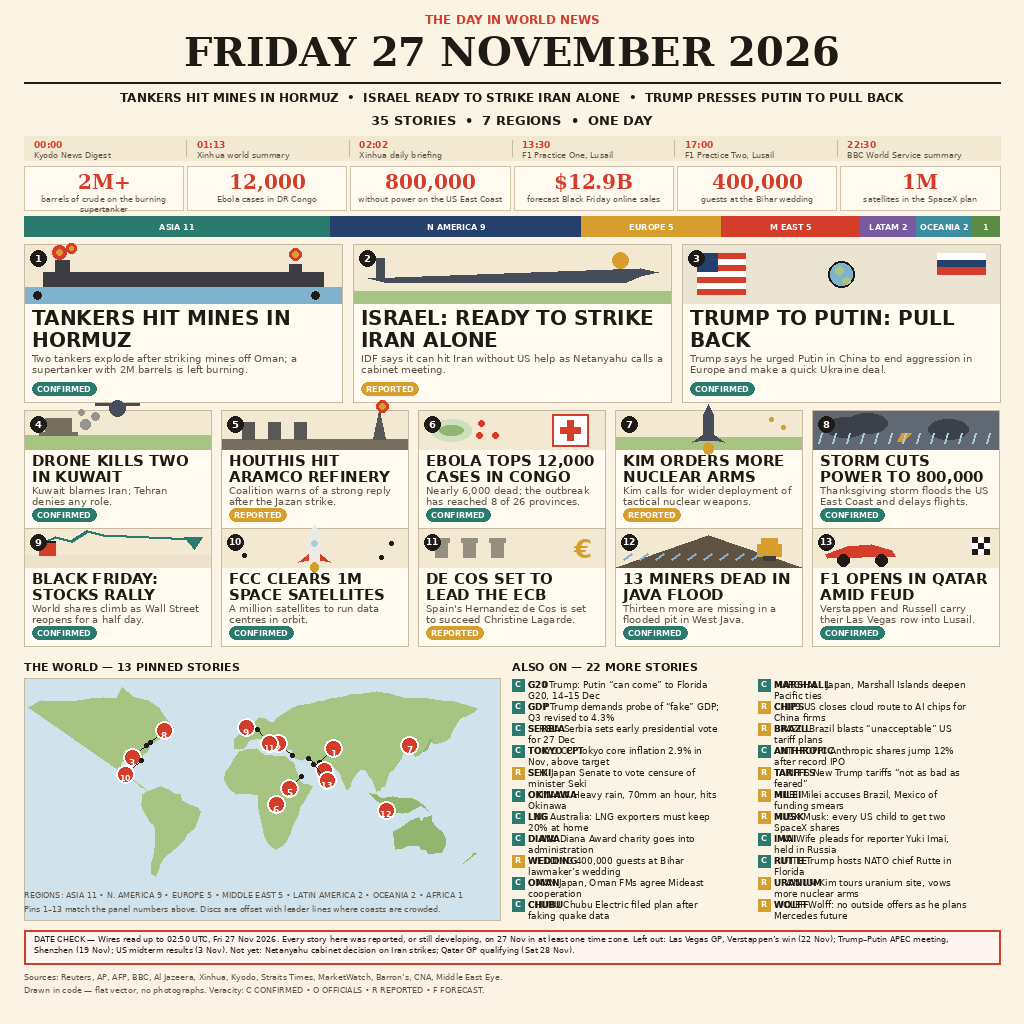
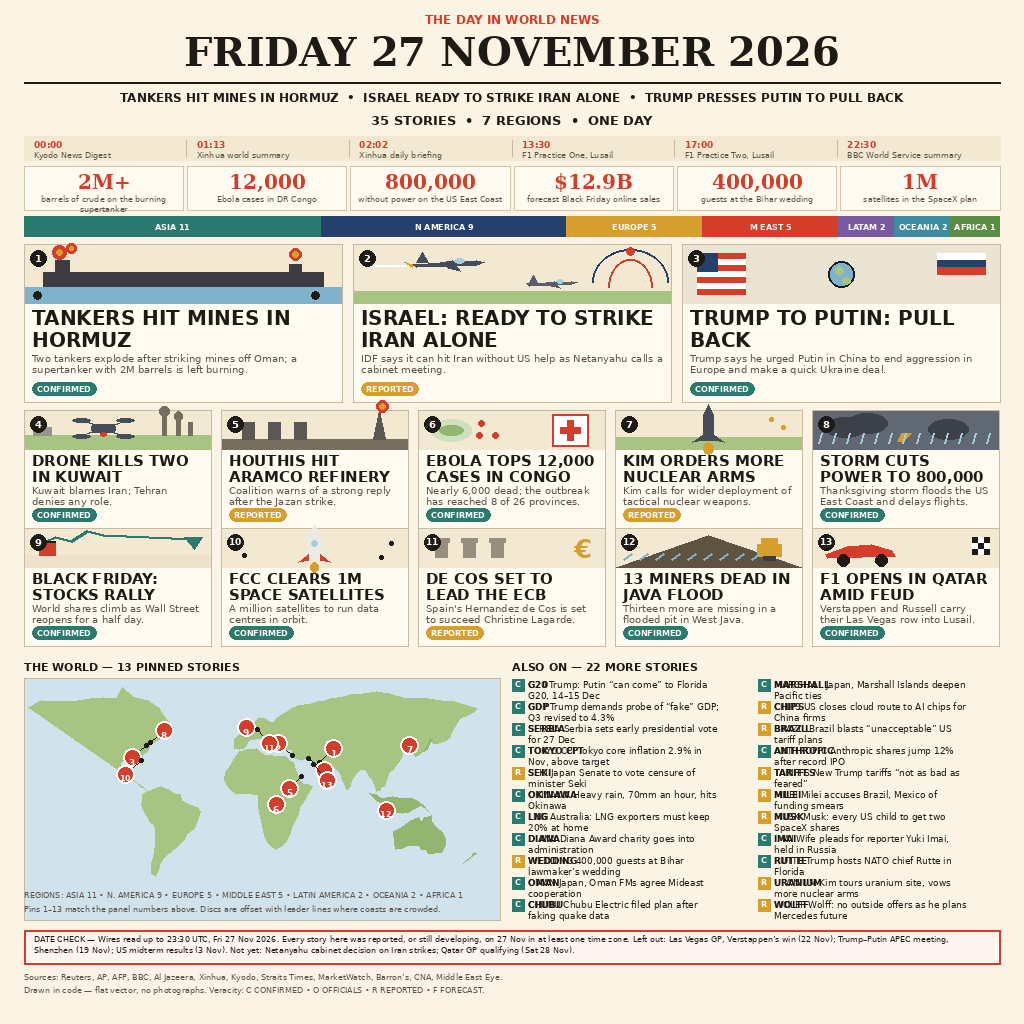
news-image-20261127 v2: fix DATE CHECK wires time, Africa label, hero-2 + panel-4 art

diff --git a/draw.py b/draw.py
@@ -194,12 +194,30 @@ def scene(d, kind, x, y, w, h):
         for mx in (x + w - 26, x + 12):
             d.ellipse([mx - 4, y + h - 12, mx + 4, y + h - 4], fill=INK)
     elif kind == "jet":
+        # Fighter jets + missile-defence arcs over land.
         d.rectangle([x, y + h - 12, x + w, y + h], fill=LAND)
-        d.polygon([(x + 14, cy + 4), (x + w - 30, cy - 6), (x + w - 12, cy - 2),
-                   (x + w - 30, cy + 2), (x + w - 44, cy + 8), (x + 30, cy + 8)],
-                  fill=(70, 76, 88))
-        d.rectangle([x + 22, cy - 16, x + 30, cy + 4], fill=(70, 76, 88))
-        d.ellipse([x + w - 58, cy - 22, x + w - 42, cy - 6], fill=MUSTARD)
+        # defence arcs rising from the ground, right side
+        d.arc([x + w - 78, y + 4, x + w - 2, y + h + 12], 180, 360, fill=NAVY, width=2)
+        d.arc([x + w - 62, y + 14, x + w - 18, y + h + 12], 180, 360, fill=CORAL, width=2)
+        d.ellipse([x + w - 44, y + 2, x + w - 36, y + 10], fill=CORAL)
+        # jet 1, large, upper left flying right
+        jx, jy, s, col = x + 92, cy - 12, 1.0, (70, 76, 88)
+        d.line([jx - 78, jy + 3, jx - 40, jy + 3], fill=(255, 255, 255), width=2)
+        d.polygon([(jx - 34, jy + 2), (jx + 30, jy - 2), (jx + 38, jy),
+                   (jx + 30, jy + 3), (jx - 30, jy + 5)], fill=col)
+        d.polygon([(jx - 6, jy), (jx + 6, jy - 2), (jx + 14, jy + 9),
+                   (jx + 2, jy + 6)], fill=col)
+        d.polygon([(jx - 30, jy), (jx - 24, jy - 10), (jx - 18, jy)], fill=col)
+        d.ellipse([jx + 8, jy - 4, jx + 18, jy + 1], fill=SKY)
+        d.polygon([(jx - 34, jy + 2), (jx - 42, jy), (jx - 34, jy + 5)], fill=MUSTARD)
+        # jet 2, smaller, lower centre flying right
+        jx, jy, s, col = x + 196, cy + 8, 0.7, (88, 94, 106)
+        d.polygon([(jx - 24, jy + 1), (jx + 21, jy - 1), (jx + 27, jy),
+                   (jx + 21, jy + 2), (jx - 21, jy + 4)], fill=col)
+        d.polygon([(jx - 4, jy), (jx + 4, jy - 1), (jx + 10, jy + 6),
+                   (jx + 1, jy + 4)], fill=col)
+        d.polygon([(jx - 21, jy), (jx - 17, jy - 7), (jx - 13, jy)], fill=col)
+        d.ellipse([jx + 6, jy - 3, jx + 13, jy + 1], fill=SKY)
     elif kind == "flags":
         d.rectangle([x, y, x + w, y + h], fill=(235, 228, 210))
         for i in range(7):  # US stripes
@@ -214,13 +232,26 @@ def scene(d, kind, x, y, w, h):
         d.ellipse([cx - 6, cy - 8, cx + 2, cy + 1], fill=LAND)
         d.ellipse([cx + 1, cy + 3, cx + 9, cy + 10], fill=LAND)
     elif kind == "drone":
+        # Quad-rotor drone over a Kuwait Towers skyline cue.
         d.rectangle([x, y + h - 14, x + w, y + h], fill=LAND)
-        d.rectangle([x + 14, cy + 2, x + 52, y + h - 14], fill=(120, 110, 96))
-        d.rectangle([x + 20, cy - 12, x + 46, cy + 2], fill=(120, 110, 96))
-        d.ellipse([cx - 8, cy - 30, cx + 8, cy - 14], fill=(70, 76, 88))
-        d.line([cx - 22, cy - 26, cx + 22, cy - 26], fill=(70, 76, 88), width=3)
-        for sx, sy, r in [(x + 60, cy - 6, 5), (x + 70, cy - 14, 4), (x + 56, cy - 18, 3)]:
-            d.ellipse([sx - r, sy - r, sx + r, sy + r], fill=(150, 148, 142))
+        # Kuwait Towers: thin spires with spheres, right side
+        for tx, sh_, sr in [(x + w - 46, 24, 5), (x + w - 32, 19, 4), (x + w - 20, 13, 0)]:
+            d.rectangle([tx - 2, y + h - 14 - sh_, tx + 2, y + h - 14],
+                        fill=(120, 110, 96))
+            if sr:
+                d.ellipse([tx - sr, y + h - 14 - sh_ - 5, tx + sr,
+                           y + h - 14 - sh_ + 5], fill=(120, 110, 96))
+        # low block, far left
+        d.rectangle([x + 8, y + h - 22, x + 26, y + h - 14], fill=(150, 148, 142))
+        # quad-rotor drone, centre-left of the band
+        dx, dy = x + 78, cy - 2
+        for ax, ay in [(-22, -8), (22, -8), (-22, 8), (22, 8)]:
+            d.line([dx, dy, dx + ax, dy + ay], fill=(70, 76, 88), width=2)
+            d.ellipse([dx + ax - 9, dy + ay - 2, dx + ax + 9, dy + ay + 2],
+                      fill=(70, 76, 88))
+        d.rounded_rectangle([dx - 12, dy - 4, dx + 12, dy + 4], radius=3,
+                            fill=(70, 76, 88))
+        d.ellipse([dx - 3, dy + 4, dx + 3, dy + 8], fill=CORAL)
     elif kind == "refinery":
         d.rectangle([x, y + h - 10, x + w, y + h], fill=(120, 110, 96))
         for tx in (x + 20, x + 46, x + 72):
@@ -389,16 +420,34 @@ def main():
             "Oceania": (60, 140, 160), "Africa": (90, 140, 70)}
     rlab = {"Asia": "ASIA", "North America": "N AMERICA", "Europe": "EUROPE",
             "Middle East": "M EAST", "Latin America": "LATAM", "Oceania": "OCEANIA",
-            "Africa": "AFR"}
+            "Africa": "AFRICA"}
     counts = {r: 0 for r in regions}
     for p in PANELS:
         counts[p["region"]] += 1
     for r in ALSO_REG:
         counts[r] += 1
     assert sum(counts.values()) == total, (counts, total)
+    # Segment widths proportional to counts, but every segment gets at least
+    # its full label width + 8 px so no label collapses to a bare number.
+    # Deficit is taken from the segments with the most spare width.
+    widths = {r: CW * counts[r] / total for r in regions}
+    for _ in range(20):
+        need = {r: tw(d, f"{rlab[r]} {counts[r]}", SANS_B(8)) + 8 for r in regions}
+        short = [r for r in regions if widths[r] < need[r]]
+        if not short:
+            break
+        deficit = sum(need[r] - widths[r] for r in short)
+        donors = [r for r in regions if widths[r] > need[r]]
+        spare = sum(widths[r] - need[r] for r in donors)
+        if spare <= 0:
+            break
+        for r in short:
+            widths[r] = need[r]
+        for r in donors:
+            widths[r] -= deficit * (widths[r] - need[r]) / spare
     rx = X0
     for r in regions:
-        seg = CW * counts[r] / total
+        seg = widths[r]
         d.rectangle([rx, 216, rx + seg - 1, 236], fill=rcol[r])
         lab = f"{rlab[r]} {counts[r]}"
         if tw(d, lab, SANS_B(8)) <= seg - 6:
@@ -490,7 +539,7 @@ def main():
 
     # DATE CHECK
     d.rectangle([X0, 930, X0 + CW, 964], outline=CORAL, width=2, fill=(255, 244, 240))
-    dc = ("DATE CHECK \u2014 Wires read up to 02:50 UTC, Fri 27 Nov 2026. Every story "
+    dc = ("DATE CHECK \u2014 Wires read up to 23:30 UTC, Fri 27 Nov 2026. Every story "
           "here was reported, or still developing, on 27 Nov in at least one time "
           "zone. Left out: Las Vegas GP, Verstappen\u2019s win (22 Nov); Trump\u2013Putin "
           "APEC meeting, Shenzhen (19 Nov); US midterm results (3 Nov). Not yet: "
